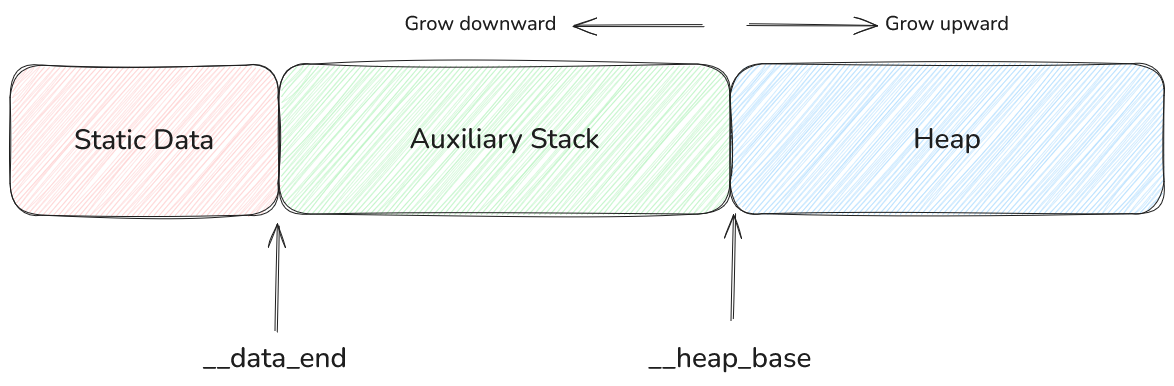
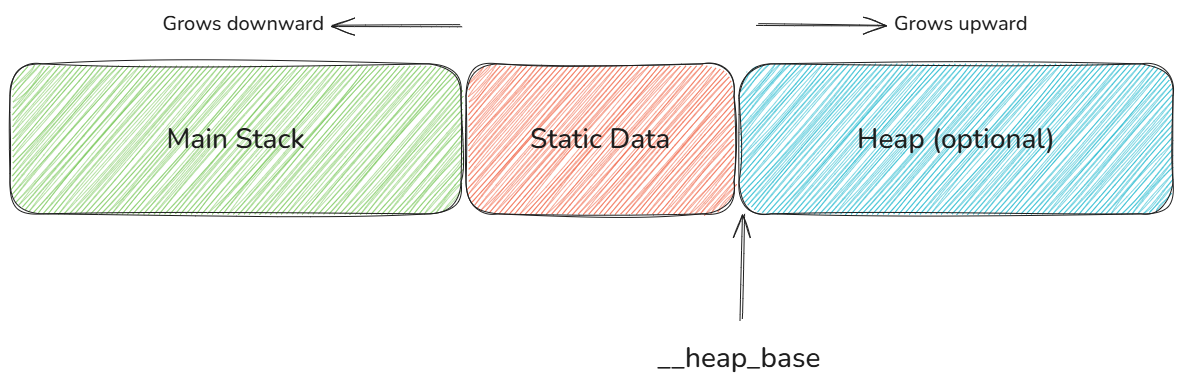
review the memory page
The general idea it to be more assertive on how MicroEJ recommends to configure the linear memory

- stack first (does not need of global heap base anymore)
- how is conputed the linear memory size
- use managed c examples instead of wat files

diff --git a/ApplicationDeveloperGuide/managedc/memory.rst b/ApplicationDeveloperGuide/managedc/memory.rst
@@ -1,20 +1,25 @@
 .. _managedc.linear.memory:
 
-Wasm Linear Memory
-===================
+Configure the Linear Memory
+===========================
 
-Wasm linear memory is a contiguous, byte-addressable memory region used in Wasm programs.
-It is the main mechanism through which a Wasm module manages its memory and exchanges data with :ref:`the host <managedc.communication.managedc_memory>`.
-This memory is represented as an array of bytes, indexed starting at zero, and is :ref:`dynamically resizable <managedc.instructions.partially_supported>`.
+The WebAssembly specification defines the linear memory as a contiguous, byte-addressable memory region used by Wasm programs to read and write data.
+The linear memory is available as an array of bytes (``byte[]``) in the :ref:`the host <managedc.communication.managedc_memory>`.
 
-Wasm Linear Memory Layout
--------------------------
+.. _managedc.linear.memory.layout:
 
-When a Wasm module is compiled, its memory is divided into different regions as following:
+Configure the Linear Memory Layout
+----------------------------------
 
-* **Static Data region**: Reserved for constants and global variables.
-* **Auxiliary Stack region**: Used for temporary allocations and some local variables, grows downward (toward lower memory addresses).
-* **Heap region**: Dynamic memory allocations, grows upward.
+The Wasm linear memory is composed of the following sections:
+
+* **Static Data**: Contains statically linked constants and global variables.
+* **Main Stack**: Used for temporary allocations and to store some local variables. The stack grows downward (toward lower memory addresses).
+* **Heap**: Used for dynamic memory allocations. The heap grows upward (toward upper memory addresses).
+
+MicroEJ recommends linking a Wasm module using the ``-Wl,--stack-first`` :ref:`linker option <managedc.link.command_line_options>`.
+
+Thus, you will get the following memory layout:
 
 .. figure:: ../images/linear_memory_layout.png
    :scale: 75%
@@ -22,42 +27,79 @@ When a Wasm module is compiled, its memory is divided into different regions as 
 
    Wasm Linear Memory Layout
 
-.. note:: 
+This ensures that both stack overflows and heap overflows trigger an exception when accessing out-of-bounds memory.
 
-    The boundary between the auxiliary stack + the Static Data regions and the heap region is marked by the special Wasm global ``__heap_base``
+.. _managedc.linear.memory.size.configuration:
 
-Wasm Linear Memory Size
------------------------
+Configure the Linear Memory Size
+--------------------------------
 
-WebAssembly organizes linear memory in pages, where each page is **64 KiB** (65,536 bytes).
+The WebAssembly specification organizes the linear memory in pages, where each page is 64 KB (65,536 bytes).
+This page-based structure has been designed for efficient memory allocation and potential growth during runtime for large environments.
+However, the minimum page size (64KB) is not suitable for constrained embedded environments, where memory resources are limited.
 
-This page-based structure allows for efficient memory allocation and potential growth during runtime. 
-However, the page size value is less suitable for embedded environments, where memory resources are more limited.
+MicroEJ implementation allocates the linear memory once at module startup and is not dynamically resized.
 
-Given the following Wasm module:
+By default, the size of the linear memory is initialized with the Wasm module initial number of pages.
+The Wasm module initial number of pages can be configured using the ``-Wl,--initial-memory=[size_in_bytes]`` :ref:`linker option <managedc.link.command_line_options>`. 
+The given size must be a multiple of 64KB, i.e. a number of pages.
 
-.. code:: wat
+It is possible to reduce the size of the linear memory lower than 64KB if both conditions are met:
 
-    (module
-        (memory $mem 2 10)
-        (export "memory" (memory $mem))
-    )
+* the Wasm module does not embed neither the ``memory.size`` nor the ``memory.grow`` instructions. This is the case if the C code does not transitively calls the ``malloc`` implementation declared in WASI libc.
+* the Wasm module exports the ``__heap_base`` global using the ``-Wl,--export=__heap_base`` :ref:`linker option <managedc.link.command_line_options>`.
 
-This linear memory of this module should have an initial Size of **2 pages** (128 KiB), and a maximum Size of **10 pages** (640 KiB).
+In this case, the linear memory is initialized to the value of the ``__heap_base`` global, which represents the sum of the stack size and the static data size.
 
-To minimize the size of allocated memory, a Wasm module should:
+.. _managedc.linear.memory.size.stack:
 
-* Export the the Wasm global ``__heap_base``, using the linker option ``-Wl,--export=__heap_base`` like the following Wasm module,
+Configure the Main Stack Size
+~~~~~~~~~~~~~~~~~~~~~~~~~~~~~
 
-.. code:: wat
+By default, the main stack size is initialized to ``65536``.
+You can adjust the linear memory stack size to using the ``-z stack-size=[size_in_bytes]`` :ref:`linker option <managedc.link.command_line_options>`.
 
-    (module
-        (memory $mem 2 10)
-        (global $heap_base (i32.const 1024))
-        (export "memory" (memory $mem))
-        (export "__heap_base" (global $heap_base))
-    )
+Configuration Examples
+~~~~~~~~~~~~~~~~~~~~~~
 
-* Avoid using the ``memory.size`` and ``memory.grow`` instructions (do not use malloc/free function in the Managed C code).
+The following Managed C code declares a static array of ``100`` bytes, and does not embed neither the ``memory.size`` nor the ``memory.grow`` instructions.
 
-When this requirements are met the memory is allocated up to ``__heap_base``, (i.e **1024 bytes** for the above Wasm module).
+.. code:: c
+
+    char my_static_data[100];
+
+
+The C code is compiled with the following options: ``-Wl,--no-entry -nostdlib -Wl,--export=my_static_data -Wl,--stack-first``.
+
+The next table shows the impacts of additionnal options on the allocated linear memory size:
+
+.. list-table::
+   :widths: 40 10 11 39
+
+   * - **Extra Options**
+     - **Required Size**
+       
+       **(bytes)**
+     - **Allocated Size**
+       
+       **(bytes)**
+     - **Comments**
+   * - `none`
+     - ``65636``
+     - ``131072``
+     - By default, the main stack size is initialized to ``65536``.
+       The required linear memory size is greater than one page, so it is aligned on ``2`` pages.
+   * - ``-Wl,--initial-memory=262144``
+     - ``262144``
+     - ``262144``
+     - The linear memory size is set to the Wasm initial number of pages (``4`` pages).
+   * - ``-z stack-size=512``
+     - ``612``
+     - ``65536``
+     - The main stack size is initialized to ``512``, but the Wasm module does not export the ``__heap_base`` symbol.
+       The linear memory size is aligned on ``1`` page. 
+   * - ``-z stack-size=512 -Wl,--export=__heap_base``
+     - ``612``
+     - ``612``
+     - The linear memory size is set to the value of the ``__heap_base`` global (``512`` bytes of stack + ``100`` bytes of static data).
+   

diff --git a/ApplicationDeveloperGuide/managedc/instructions.rst b/ApplicationDeveloperGuide/managedc/instructions.rst
@@ -31,13 +31,11 @@ Additionnal WebAssembly Instructions
 
 .. _managedc.instructions.partially_supported:
 
-Wasm Instructions partially supported
--------------------------------------
+Partially Supported WebAssembly Instructions 
+--------------------------------------------
 
-* memory_grow: Executing the ``memory_grow`` instruction will not result in an error, but it will not expand the Wasm linear memory either.
+* memory_grow: Executing the ``memory_grow`` instruction will not result in an error, but it will not expand the Wasm linear memory either. See :ref:`managedc_linear_memory` for more details.
 
-Therefore, applications should not try to increase the Wasm linear memory.
-Use the following linker options to set both the initial and maximum linear memory size to the same value: ``-Wl,--initial-memory=<value>`` and  ``-Wl,--max-memory=<value>`` 
 
 
 ..

diff --git a/ApplicationDeveloperGuide/managedc/compilation.rst b/ApplicationDeveloperGuide/managedc/compilation.rst
@@ -76,8 +76,9 @@ Here are some useful link options:
 * ``-Wl,--export=foo``: Exports a symbol named 'foo'.
 * ``-Wl,--export-all``: Exports all symbols.
 * ``-Wl,--allow-undefined``: Allow undefined symbols.
-* ``-Wl,--global-base=n``: Sets the global base to 'n'.
-* ``-z stack-size=n``: Adjusts the stack size to 'n'.
+* ``-Wl,--stack-first``: Places the stack at the begining of linear memory. See :ref:`managedc.linear.memory.layout`.
+* ``-Wl,--initial-memory=n``: Sets the initial size of the linear memory to 'n' bytes. See :ref:`managedc.linear.memory.size.configuration`.
+* ``-z stack-size=n``: Adjusts the stack size to 'n' bytes. See :ref:`managedc.linear.memory.size.stack`.
 
 .. _managedc.link.nostdlib:
 

diff --git a/ApplicationDeveloperGuide/managedc/getting_started.rst b/ApplicationDeveloperGuide/managedc/getting_started.rst
@@ -234,7 +234,7 @@ For further details, refer to the following sub-sections:
 - :ref:`managedc.binding`: Specifies the mechanism to seamlessly link your Java and Managed C code together. 
 - :ref:`wasm.wasi`: Discover WASI, the WebAssembly System Interface implemented by MicroEJ.
 - :ref:`Troubleshooting <managedc.troubleshooting>`: Assistance for resolving common issues when working with Managed C.
-- :ref:`Linear memory <managedc.linear.memory>`: An overview of the Wasm Linear memory.
+- :ref:`Linear memory <managedc.linear.memory>`: Configure the WebAssembly Linear memory.
 
 ..
    | Copyright 2023-2025, MicroEJ Corp. Content in this space is free 
